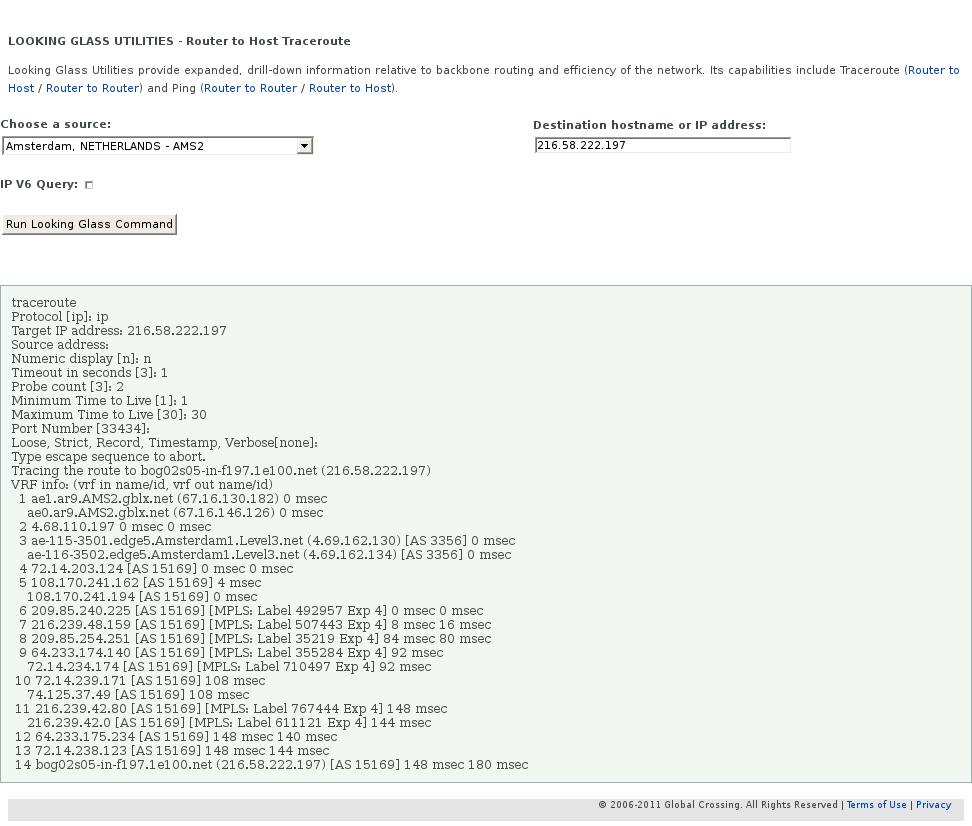
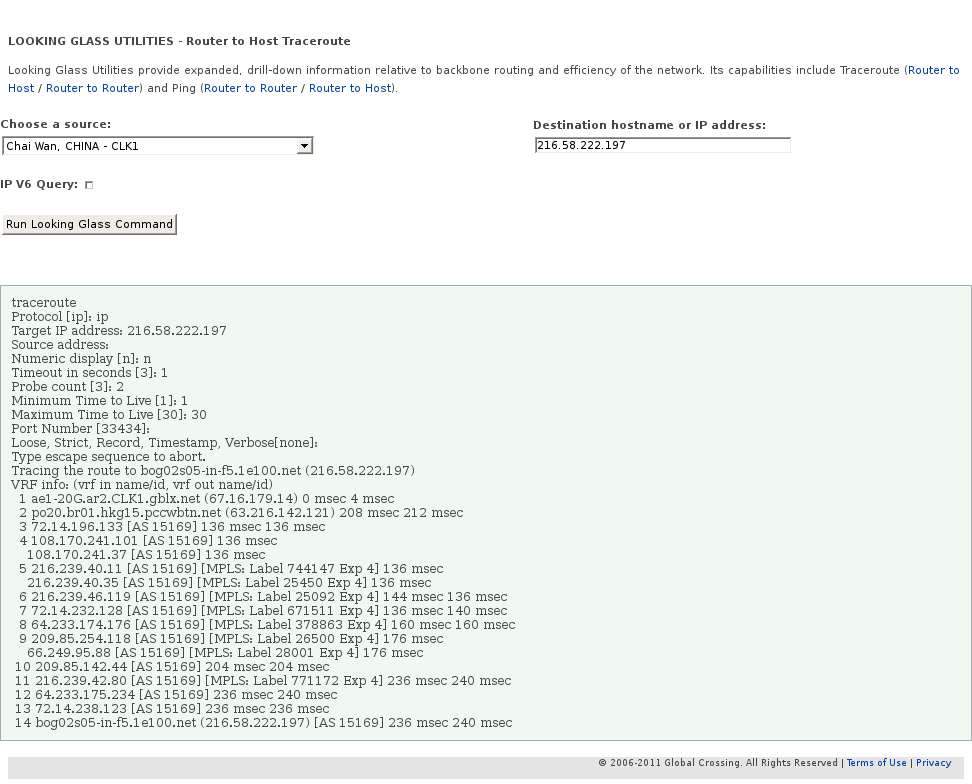
add logic for chosing servers, add parameter for choose the source

diff --git a/templates/index.html b/templates/index.html
@@ -6,8 +6,8 @@
 </head>
 <body>
     <form action="/traceroute/" method="post">
-        <select name="source" size=1>
 
+<select name="source" size=1>
 <option value="Asia" disabled="disabled">Asia</option>
 <option value="119637" >Chai Wan, CHINA - CLK1</option>
 <option value="145522" >Chuo-ku, Tokyo, JAPAN - TYO1</option>
@@ -88,9 +88,8 @@
 <option value="135272" >Washington, UNITED STATES - WDC2</option>
 </select>
 
-
-        ip: <input type="text" name="ip"/>
-        origin: <input type="" name="origin" />
+        ip: <input type="text" name="ip"/><br>
+        origin: <input type="" name="origin" /> 
         submit: <input type="submit">
     </form>
     {%if response%}

diff --git a/logic/casper/global-crossing.js b/logic/casper/global-crossing.js
@@ -34,11 +34,11 @@ casper.start(url, function() {
         //Select the source router
         for(var i=0; i<options.length; i++){
             if(options[i].value==router){
-                var pos = i;
+                document.getElementsByTagName('option')[i].selected = 'selected';
             }
         }
         
-        document.getElementsByTagName('option')[pos].selected = 'selected';
+        
         //Select the input
         input = document.getElementsByName("destAddress")[0] ;
         //Change the address

diff --git a/main.py b/main.py
@@ -21,12 +21,15 @@ def traceroute():
     data = request.form
     #extracting the parameters
     address= data["ip"]
+    source = data["source"]
     phantom = "export PATH=$PATH:/opt/phantom/bin/ && "
     casper = "/opt/casperjs/bin/casperjs "
     script = "~/Documents/myProjects/scripting/logic/casper/global-crossing.js "
-    arguments = "--addr="+address
+    argumentip = "--addr="+address
+    argumentsource = " --source="+source
     pipe = " | tee "+address+".temp"
-    command = phantom + casper + script + arguments + pipe 
+    command = phantom + casper + script + argumentip + argumentsource + pipe 
+    #execute the command
     os.system(command)
     #reading the answer
     response = open(address+".temp", "r+").read()    
